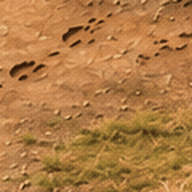
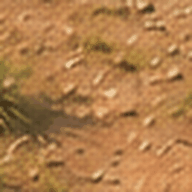
Frame the complete Wonderwerk cave and validate weather render evidence

diff --git a/app/src/main/cpp/FastScene.cpp b/app/src/main/cpp/FastScene.cpp
@@ -257,7 +257,7 @@ void buildStatic(){
         const float r=top(xx)*t,rr=top(xx)*tt;
         if(cliffOpen((x+xx)*.5f,(y+yy+r+rr)*.25f))continue;
         Vec3 a{x,y,cliffZ(x,y)},b{xx,r,cliffZ(xx,r)},c{xx,rr,cliffZ(xx,rr)},d{x,yy,cliffZ(x,yy)};
-        quad(terrainMesh,a,b,c,d,1.f);
+        quad(terrainMesh,a,d,c,b,1.f);
     }
     // Close the full rock formation down to the ground behind the entrance.
     constexpr int depthSegments=30;
@@ -284,7 +284,7 @@ void buildStatic(){
         quad(terrainMesh,a,b,bb,aa,6.f);
     }
     quad(terrainMesh,{-1.45f,surfaceHeight(-1.45f,3.75f),3.75f},{1.45f,surfaceHeight(1.45f,3.75f),3.75f},
-        {1.45f,surfaceHeight(1.45f,6.7f),6.7f},{-1.45f,surfaceHeight(-1.45f,6.7f),6.7f},1.f);
+        {1.45f,surfaceHeight(1.45f,6.7f),6.7f},{-1.45f,surfaceHeight(-1.45f,6.7f),6.7f},6.f);
     quad(terrainMesh,{-1.1f,0.0f,6.7f},{1.1f,0.0f,6.7f},
         {1.1f,2.7f,6.7f},{-1.1f,2.7f,6.7f},6.f);
     // The previous 8 angular polygon-stones are removed: natural stones are now true photogrammetry meshes.
@@ -492,7 +492,7 @@ void main(){
     gl_Position=u_viewProjection*vec4(position,1.);
 })GLSL";
 const char* FRAG=R"GLSL(#version 300 es
-precision mediump float;
+precision highp float;
 in vec3 wPos;in vec3 wNorm;in float materialValue;flat in int matId;
 uniform float u_rain;uniform float u_mud;uniform float u_clock;uniform float u_animationTime;
 uniform vec2 u_wind;
@@ -536,15 +536,17 @@ void main(){
     }else if(matId==5){
         base=vec3(.40,.29,.22);
     }else if(matId==6){
-        base=vec3(.055,.052,.046);
+        float shade=mix(.54,.15,smoothstep(3.7,6.7,wPos.z));
+        base=vec3(.21,.16,.115)*(shade+grain*.035);
     }else if(matId==7){base=vec3(.70,.61,.39);}
     else if(matId==8){base=vec3(.46,.62,.52);}
     else if(matId==9){base=vec3(.57,.60,.73);}
     else if(matId==11){
-        vec2 direction=normalize(u_wind+vec2(.0001));
+        float windSpeed=length(u_wind);
+        vec2 direction=windSpeed>.001?u_wind/windSpeed:vec2(1.,0.);
         float crosswind=dot(wPos.xz,vec2(-direction.y,direction.x));
         float ripple=.5+.5*sin(dot(wPos.xz,direction)*12.-u_animationTime*3.+sin(crosswind*2.1));
-        ripple*=.24+.76*max(length(u_wind),u_rain);
+        ripple*=.24+.76*max(windSpeed,u_rain);
         float glint=pow(max(0.,sin(u_animationTime*1.2+wPos.x*1.7-wPos.z*2.1)),10.);
         base=mix(vec3(.035,.115,.12),vec3(.12,.31,.29),ripple*.72);
         base+=vec3(.18,.21,.17)*glint;
@@ -646,7 +648,7 @@ void render(int width,int height,const FastFrame& f){
     float aspect=float(width)/float(height);
     float yaw=f.yaw,pitch=std::clamp(f.pitch,.349066f,1.396263f);
     float distance=std::max(18.f,f.zoom*2.f);
-    Vec3 focus{f.playerX,surfaceHeight(f.playerX,f.playerZ)+.90f,f.playerZ+1.65f};
+    Vec3 focus{f.playerX,surfaceHeight(f.playerX,f.playerZ)+.90f,f.playerZ+1.65f+std::clamp((f.zoom-10.f)*.29f,0.f,3.f)};
     Vec3 delta{std::sin(yaw)*std::cos(pitch)*distance,
                std::sin(pitch)*distance,
                -std::cos(yaw)*std::cos(pitch)*distance};

diff --git a/tests/fast_scene_preview.cpp b/tests/fast_scene_preview.cpp
@@ -150,8 +150,10 @@ int main(){
     check(taks::RealModels::complete(),"all three photo-scanned models must be uploaded to GPU");
 
     taks::FastFrame frame;
-    frame.playerX=0.f;frame.playerZ=-5.2f;frame.yaw=.785398f;frame.pitch=.615480f;
-    frame.zoom=10.f;frame.clock=11.0f;frame.rain=.15f;
+    frame.playerX=0.f;frame.playerZ=-5.2f;frame.yaw=-.785398f;frame.pitch=.615480f;
+    frame.zoom=19.f;frame.clock=11.0f;frame.rain=0.f;
+    frame.waters[0]=-4.7f;frame.waters[1]=-5.8f;frame.waters[2]=1.4f;frame.waters[3]=.76f;
+    frame.hearth=1.f;frame.fire=1.f;
     const float nodes[48]={
         -2.f,-5.5f,0,3,3.f,-4.f,0,3,-4.f,-1.2f,0,4,5.f,.5f,0,4,
         1.f,-5.4f,1,3,3.f,-.8f,1,3,-2.f,1.5f,1,2,
@@ -197,7 +199,7 @@ int main(){
     // no other mesh can animate between these two frames.
     const auto initialFrame=frame;
     frame.playerX=-2.5f;frame.playerZ=-4.6f;frame.zoom=7.f;
-    frame.rain=0;frame.animationTime=2.4f;frame.windStrength=0;
+    frame.rain=0;frame.fire=0;frame.animationTime=2.4f;frame.windStrength=0;
     const auto calmFoliage=render("15-szelcsendes-noveny.ppm");
     frame.windStrength=.78f;
     const auto windyFoliage=render("16-szelmozgatott-noveny.ppm");
@@ -216,14 +218,14 @@ int main(){
     frame.yaw=2.3f;
     const auto rotated=render("02-forgatott-kamera.ppm");
     check(rotated!=iso,"yaw did not change the actual image");
-    frame.pitch=1.25f;frame.yaw=.785398f;
+    frame.pitch=1.25f;frame.yaw=-.785398f;
     const auto overhead=render("03-felulnezet.ppm");
     check(overhead!=iso && overhead!=rotated,"pitch did not change the actual image");
     frame.pitch=.45f;
     const auto low=render("04-alacsony-3d-kamera.ppm");
     check(low!=overhead,"low 3D camera angle did not change the actual image");
     frame.pitch=.615480f;
-    frame.yaw=.785398f;
+    frame.yaw=-.785398f;
     const auto scans=render("05-valodi-cc0-fotoalapu-kovek.ppm");
     check(scans!=0,"photogrammetry image rendered no pixels");
     for(int i=0;i<12;++i)if(int(frame.nodes[4*i+2]+.5f)==1)frame.nodes[4*i+3]=0;
@@ -231,7 +233,7 @@ int main(){
     check(mined!=scans,"collecting rocks did not change photographic 3D mesh rendering");
     // Real saved ecological biomass must alter actual GPU pixels.
     frame.playerX=-5.2f;frame.playerZ=-1.7f;frame.zoom=8.2f;
-    frame.yaw=.785398f;frame.pitch=.615480f;
+    frame.yaw=-.785398f;frame.pitch=.615480f;
     const auto aliveGrass=render("07-valodi-elo-fu.ppm");
     for(int i=0;i<4;++i)frame.grass[i*5+4]=1.f;
     const auto trampledGrass=render("08-esoben-letaposott-fu.ppm");
@@ -251,7 +253,7 @@ int main(){
           "fern geometry must be gated by world botanical approval");
     // Camera close-up confirms the actual MakeHuman mesh is on the same GPU path.
     frame.playerX=0.f;frame.playerZ=-5.2f;frame.zoom=6.5f;
-    frame.pitch=.48f;frame.yaw=.785398f;
+    frame.pitch=.48f;frame.yaw=-.785398f;
     const auto idlePose=render("12-skinned-embermodellek-idle.ppm");
     frame.playerMoving=true;
     std::this_thread::sleep_for(std::chrono::milliseconds(320));

diff --git a/app/src/main/java/hu/taks/world/MainActivity.java b/app/src/main/java/hu/taks/world/MainActivity.java
@@ -76,7 +76,7 @@ public final class MainActivity extends Activity {
     private final ArrayList<View> gameHud=new ArrayList<>();
     private boolean inMainMenu=true;
     private Button pickupButton;
-    private float orbit=.785398f,cameraPitch=.615480f,zoom=10f,lastX=0,lastY=0,lastSpan=0;
+    private float orbit=-.785398f,cameraPitch=.615480f,zoom=19f,lastX=0,lastY=0,lastSpan=0;
     private int activePanel=0;
     private final Handler worldHandler=new Handler(Looper.getMainLooper());
     private final Handler renderHandler=new Handler(Looper.getMainLooper());
@@ -724,7 +724,7 @@ public final class MainActivity extends Activity {
             addVertical(body,"3D felbontás – gyors / kiegyensúlyozott / részletes",
                     this::chooseGraphicsResolution);
             addVertical(body,"Izometrikus kamera",()->{
-                orbit=.785398f;cameraPitch=.615480f;zoom=10f;
+                orbit=-.785398f;cameraPitch=.615480f;zoom=19f;
                 nativeSetView(orbit,cameraPitch,zoom);refreshScene();
             });
             addVertical(body,"Kamera: felülnézet",()->{

diff --git a/tests/ppm_to_png.py b/tests/ppm_to_png.py
@@ -36,5 +36,5 @@ def convert(ppm: pathlib.Path):
     print(f"Validated raster image: {output} ({w} x {h})")
 
 frames=sorted(pathlib.Path("build-previews").glob("*.ppm"))
-if len(frames) not in (6,10,11,13,14,16):raise RuntimeError(f"Expected 6 geology, 10 ecology, 11 legacy, 13 rigged-human, 14 trampling or 16 wind-animation GPU frames, found {len(frames)}")
+if len(frames) not in (6,10,11,13,14,16,17):raise RuntimeError(f"Expected 6 geology, 10 ecology, 11 legacy, 13 rigged-human, 14 trampling 16 wind-animation or 17 weather GPU frames, found {len(frames)}")
 for path in frames:convert(path)

diff --git a/app/src/main/cpp/native_main.cpp b/app/src/main/cpp/native_main.cpp
@@ -17,7 +17,7 @@ namespace {
 taks::World world;
 std::mutex worldLock;
 GLuint program=0, vertexArray=0;
-float orbit=0.785398f, pitch=0.615480f, zoom=10.0f;
+float orbit=-0.785398f, pitch=0.615480f, zoom=19.0f;
 float playerHeading=0.0f;
 std::chrono::steady_clock::time_point playerMovementDeadline{};
 std::chrono::steady_clock::time_point playerRunDeadline{};

diff --git a/app/src/main/cpp/FastScene.h b/app/src/main/cpp/FastScene.h
@@ -3,7 +3,7 @@
 #include <cstdint>
 namespace taks {
 struct FastFrame {
-    float yaw=0.785398f, pitch=0.615480f, zoom=10.0f;
+    float yaw=-0.785398f, pitch=0.615480f, zoom=19.0f;
     float playerX=0,playerZ=-5.2f,walkPhase=0,playerHeading=0;
     bool playerMoving=false,playerRunning=false;
     float rain=0, moisture=0, mud=0, clock=8,animationTime=0;
